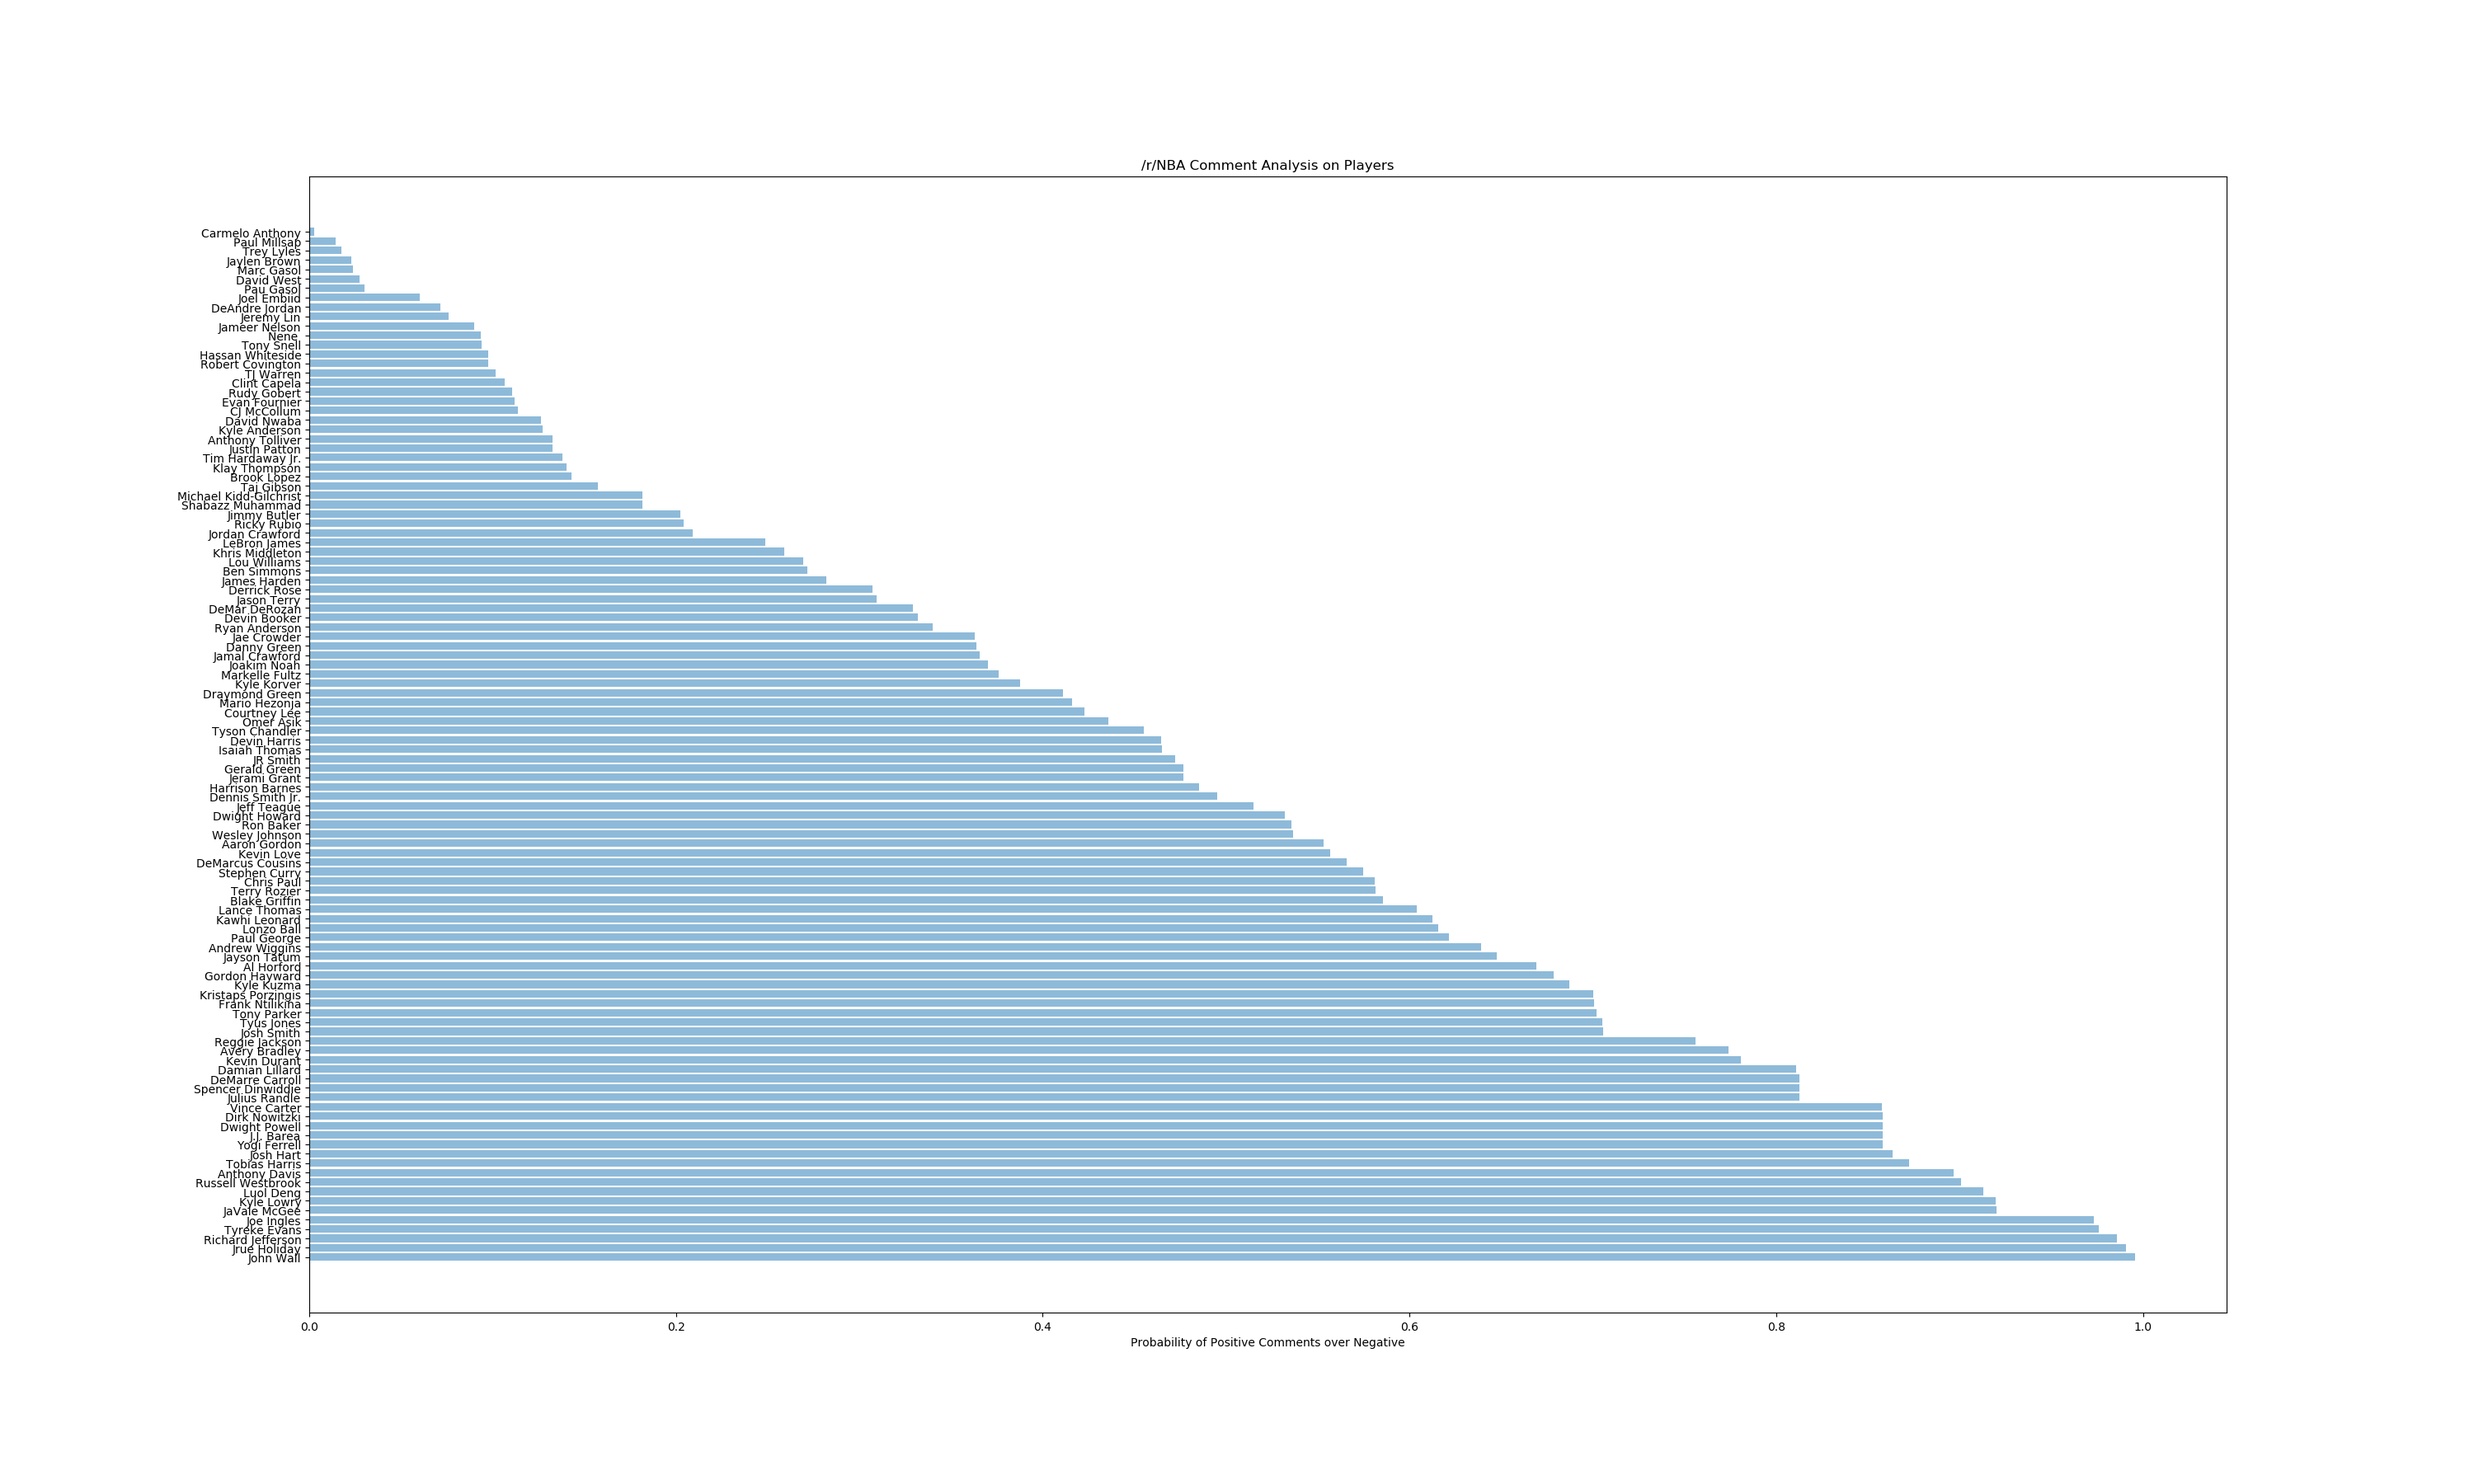
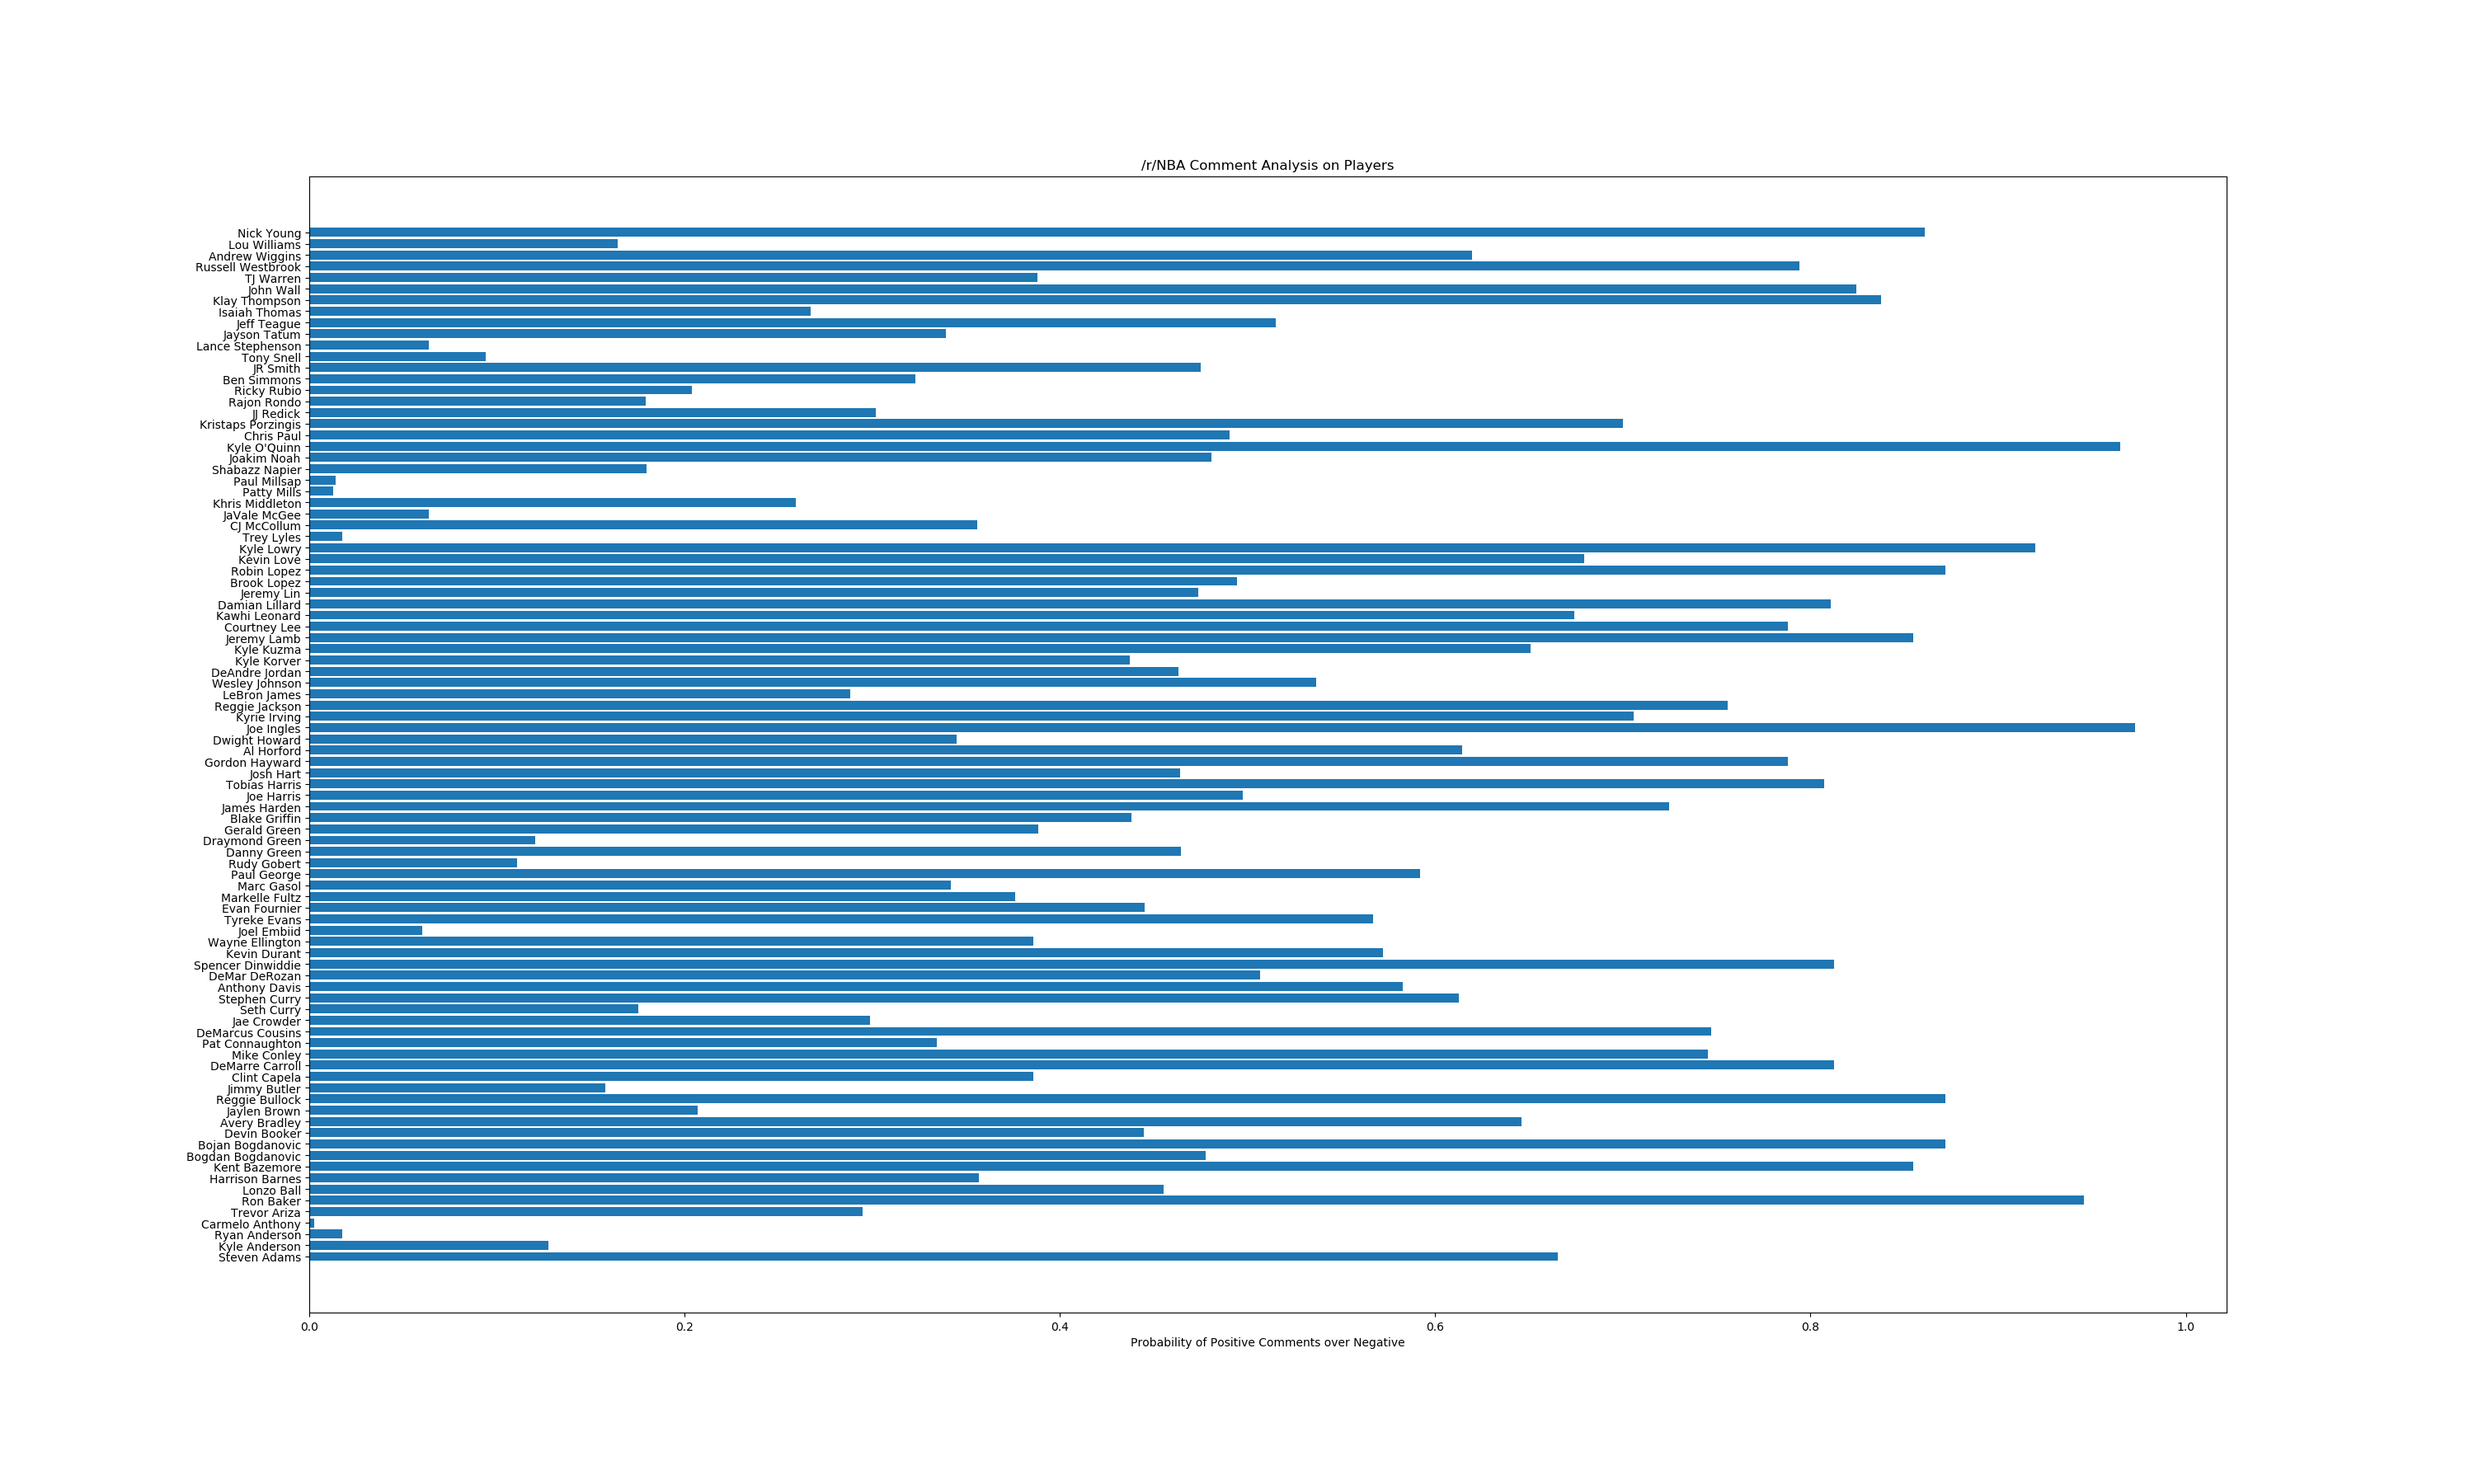
added comments for better readability

diff --git a/RedditBot/redditbot.py b/RedditBot/redditbot.py
@@ -12,9 +12,11 @@ username=USERNAME, password=PASSWORD, user_agent=USER_AGENT)
 
 
 def clear():
+    # windows clear function in order to have tests in the terminal be more clean
     os.system('cls')
 
 def replace_comments_with_ratios(dic, api_results):
+    # to reduce runtime by n, I am looping through player keys and calculating which floats correspond to which players' comments
     i = 0
     results_length = len(api_results)
     for player in dic:
@@ -29,9 +31,11 @@ def replace_comments_with_ratios(dic, api_results):
     return dic
 
 def pass_dic_for_chart(dic):
+    # possibly unnecessary helper function to create a graph from the dictionary
     create_chart(dic)
 
 def prepare_payload(dic):
+    # function that prepares the comments from players to be sent to the Indico API
     payload = []
     for player in dic:
         if dic[player]['mentions'] > 0:
@@ -40,10 +44,12 @@ def prepare_payload(dic):
     return payload
 
 def get_sentiment_payload(payload):
+    # helper function to retrieve the results of the API calls on the payload
     api_results = indicoio.sentiment(payload)
     return api_results
 
 def clean_dic(dic):
+    # returns dictionary of players with nonzero amount of comments
     new_dic = {}
     for player in dic:
         if dic[player]['mentions'] != 0:
@@ -51,7 +57,8 @@ def clean_dic(dic):
     dic = new_dic
     return dic
 
-def check_for_player(dic, comment_string):
+def check_for_players(dic, comment_string):
+    # checks string for mentions of any player in dictionary
     for name in dic:
         # going to start with just full name substrings like 'Kyrie Irving'
         if name.lower() in comment_string.lower():
@@ -60,18 +67,19 @@ def check_for_player(dic, comment_string):
         # only do this for one player -- unit test
 
 def search_for_players_frontpage(dic):
+    # scraping function for subreddit frontpage
     for submission in reddit.subreddit('NBA').hot(limit=20):
         submission.comments.replace_more(limit=0)
         flat_comments = submission.comments.list()
         for comment in flat_comments:
-            check_for_player(dic, comment.body)
+            check_for_players(dic, comment.body)
     dic = clean_dic(dic)
     return dic
 
 def search_for_players_new(dic):
     for comment in reddit.subreddit('NBA').stream.comments():
         comment_id = comment.fullname.split('_')[1]
-        check_for_player(dic, comment.body)
+        check_for_players(dic, comment.body)
 
 
 # Known Issues:

diff --git a/RedditBot/nba_players.py b/RedditBot/nba_players.py
@@ -1,24 +1,17 @@
 # this file is for grabbing the names of every nba player (hopefully)
-
-# import requests
-# response = requests.get('https://stats.nba.com/players/list/')
-# open('players', 'wb').write(response.content)
-# print(response.status_code)
-# print(response.text)
-
 # Apparently, there was an easier way to do this; someone already had a JSON with the names.
 # I took this JSON file from Nick Bottomley's (bttmly) project at https://github.com/bttmly/nba
+
 import time
 import json
 
 start_time = time.time()
+players_dic = {}
 
 with open('players.json', 'r') as file:
     json_dic = json.load(file)
 
-players_dic = {}
 
 for player in json_dic:
     players_dic[player['firstName'] + ' ' + player['lastName']] = {'mentions': 0, 'comments': []}
     
-print('This code does run \n -------------')

diff --git a/RedditBot/chart_creation.py b/RedditBot/chart_creation.py
@@ -11,14 +11,13 @@ players_value_pairs = []
 def create_chart(dic):
     for player in dic:
         players_value_pairs.append([dic[player]['comments'], player])
-    players_value_pairs.sort(reverse=True)
     players = [x[1] for x in players_value_pairs]
     values = [x[0] for x in players_value_pairs]
     print(players)
     print(values)
     y_pos = np.arange(len(players))
 
-    plt.barh(y_pos, values, align='center', alpha=0.5)
+    plt.barh(y_pos, values, align='center', alpha=None)
     plt.yticks(y_pos, players)
     plt.xlabel('Probability of Positive Comments over Negative')
     plt.title('/r/NBA Comment Analysis on Players')

diff --git a/RedditBot/main.py b/RedditBot/main.py
@@ -1,8 +1,10 @@
+import time
+import json
+
 from redditbot import *
 from nba_players import start_time, players_dic
 from chart_creation import create_chart
-import time
-import json
+
 
 def write_dic_to_json(dic):  
     hello = json.dumps(dic)
